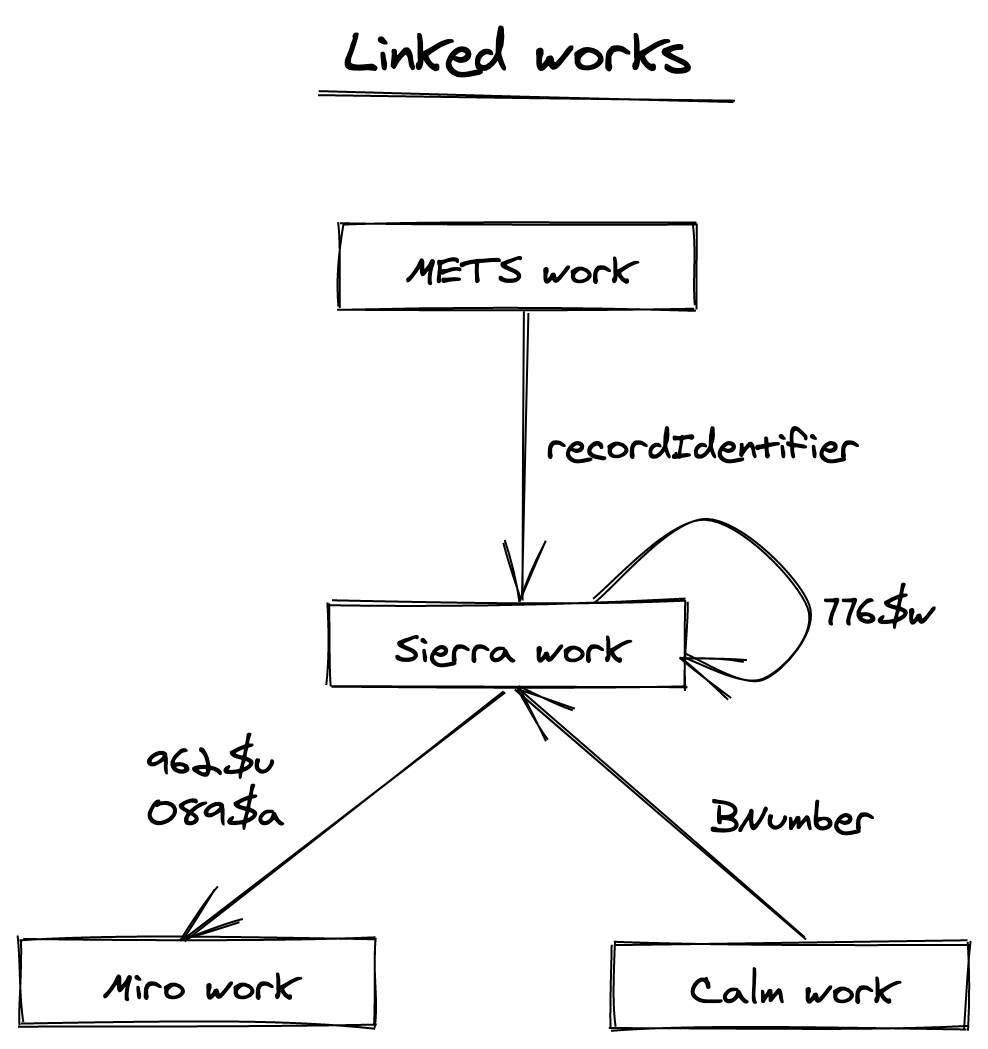
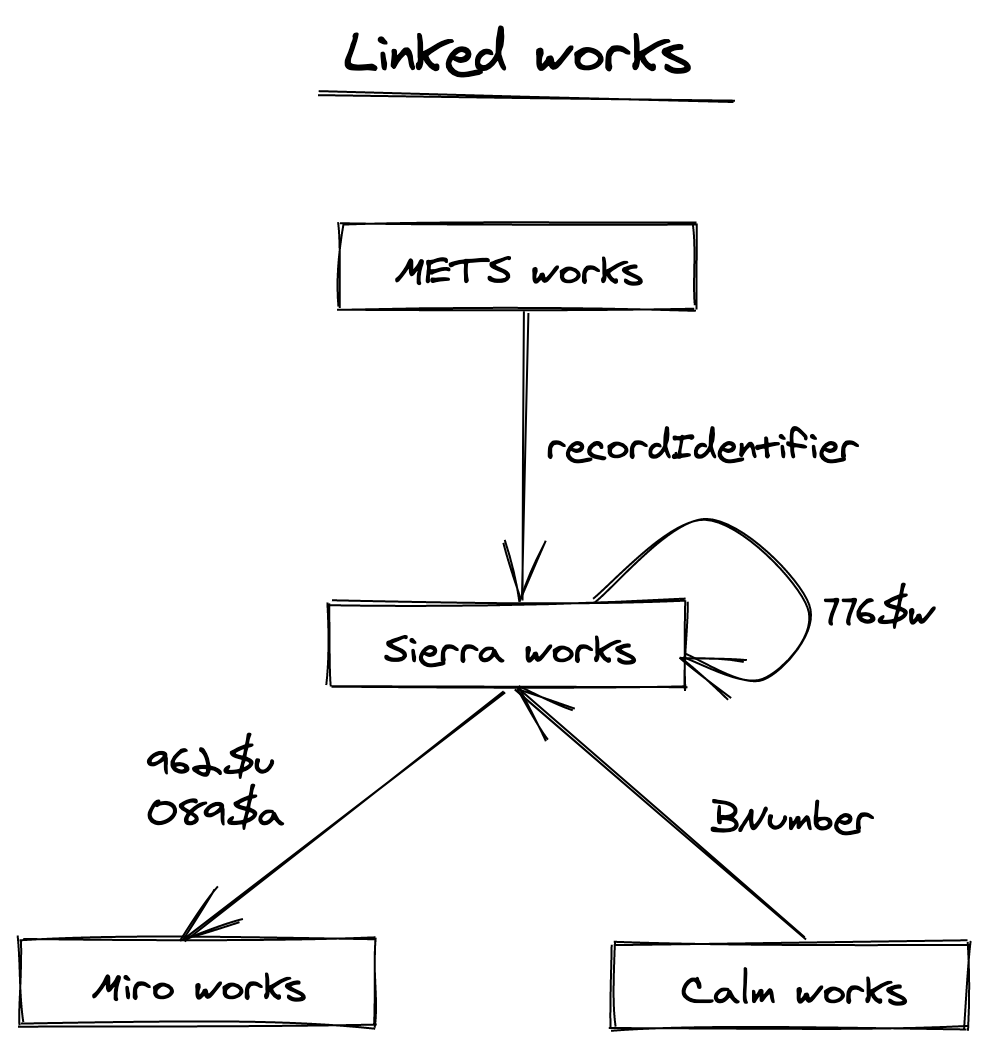
s/work/works in merge docs

diff --git a/pipeline/merging.md b/pipeline/merging.md
@@ -15,7 +15,7 @@ This is carried out by the transformers of the respective sources data.
 
 #### How are works currently linked?
 ![How works are currently linked](../.gitbook/merger_linking_works.png)
-https://excalidraw.com/#json=5729374082957312,iBs69rijD01Z2HmHNYvqkw
+https://excalidraw.com/#json=5964037271584768,ojtCECzrMrgSJuBp3VCvHw
 
 
 ### 2. Merging linked works
